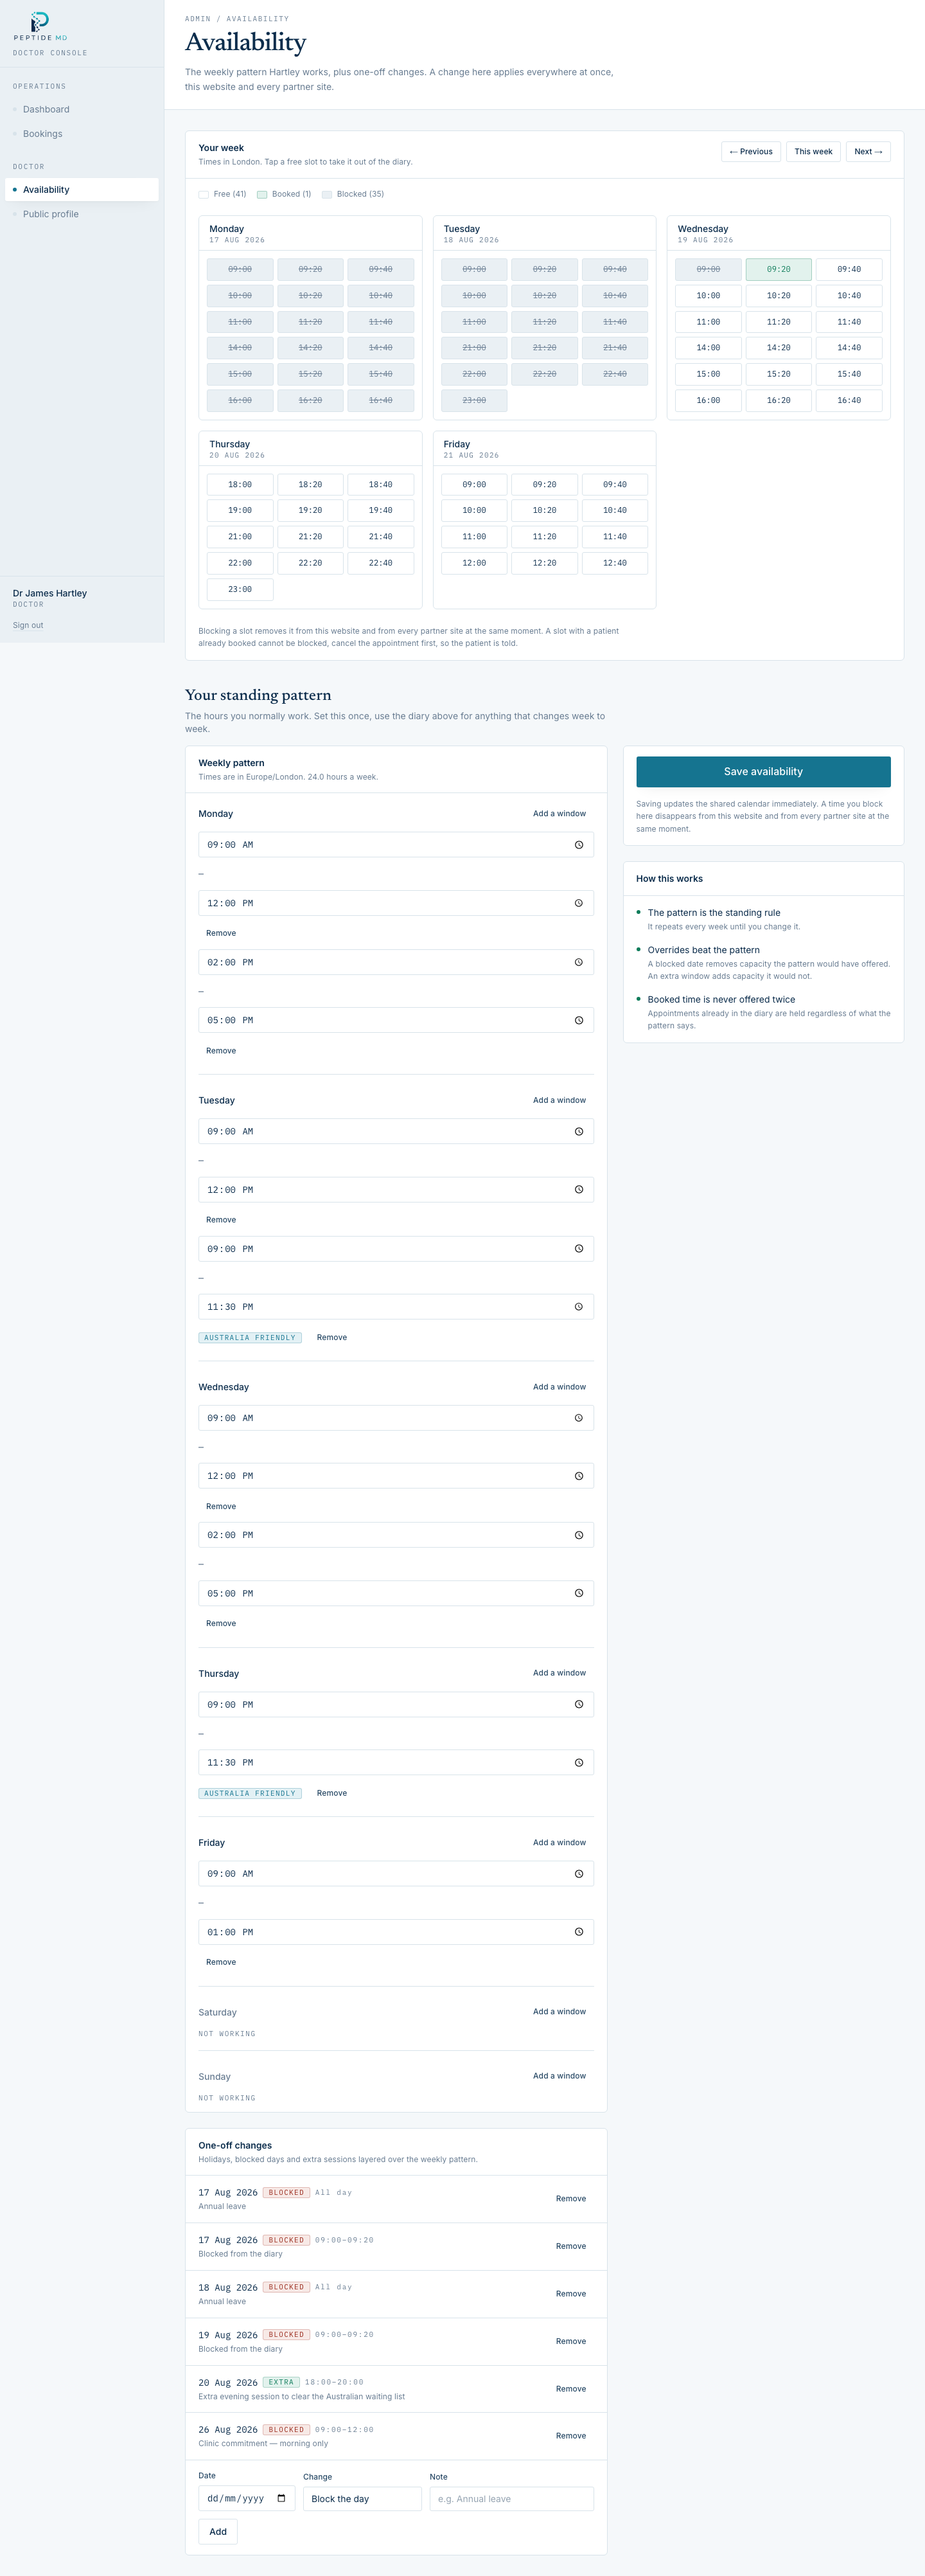
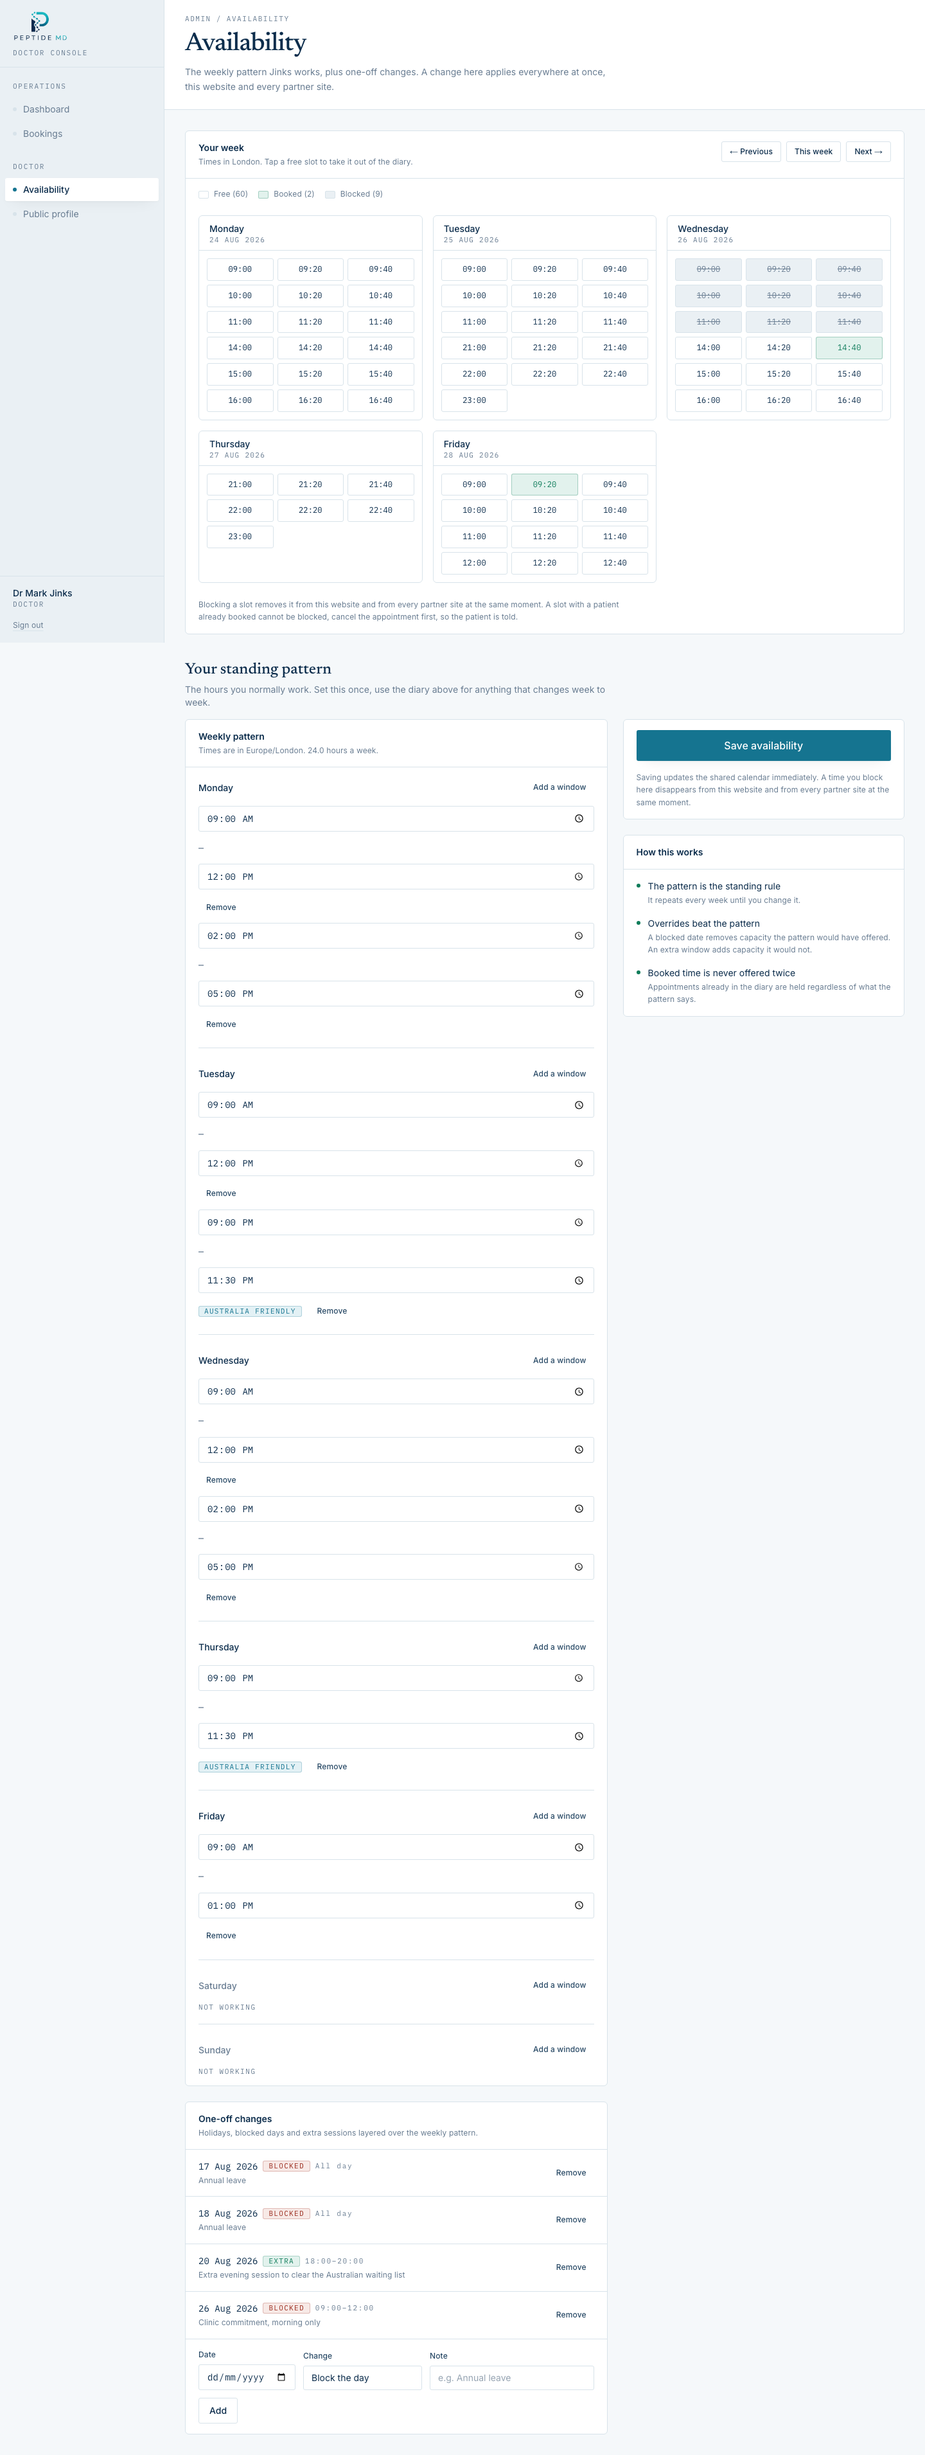
feat: Dr Jinks's own bio, credentials and quote
Supplied by the clinic. Replaces the last of the stand-in content on the public
page, including a pull quote that had been written for him and attributed to
him, which is not a quote.

His real GMC number is here, 7408409, so the registration line prints again for
the first time since I cleared the invented one.

Main areas and languages are now his: sports and performance medicine,
longevity and preventative health, general practice, men's and women's health
screening, musculoskeletal medicine. The section heading changed from "What he
sees most", which was our phrasing, to "Main areas", which is his.

ONE EDITORIAL CHANGE TO THE TEXT SUPPLIED
A single em dash in the first paragraph became a comma. This project does not
use them anywhere and scripts/verify-no-em-dashes.mjs enforces that against the
database as well as the source, so the bio would have failed the check as
written. Nothing else was altered: the words, the paragraph breaks and the
punctuation are as sent.

Doctor.quote is nullable on purpose. A doctor without one should render nothing
rather than something written on his behalf.

Also fixed a cosmetic issue the new content exposed: five main areas in a
two-column grid left the last cell empty, showing the divider colour as a grey
hole. An odd final item now spans both columns.

All suites green.

diff --git a/packages/database/prisma/seed.ts b/packages/database/prisma/seed.ts
@@ -73,22 +73,22 @@ async function main() {
     create: {
       name: 'Dr Mark Jinks',
       credentials: 'MBBS, MRCGP',
-      // Empty until Ross supplies it. The site omits the registration line
-      // rather than printing a number we do not hold.
-      gmcNumber: '',
+      gmcNumber: '7408409',
       photoUrl: '/doctor/peptide-md-doctor.jpg',
+      quote: 'Why be well when you can be great?',
       headline: 'A doctor who will tell you when the answer is no.',
       bio: [
-        'Mark Jinks has practised for eighteen years, the last six of them working almost entirely with patients who are using, or thinking about using, peptide therapies.',
-        'He came to it the way most people do, patients arriving with a protocol they had found online, a box of vials, and nobody willing to talk to them about it. Most had been sold something. Almost none had been examined.',
-        'The consultation is twenty minutes and it is deliberately plain. He will ask what you are taking, what you are trying to fix, and what your history is. Then he will tell you what he thinks, including when he thinks the honest answer is that you should not be taking anything at all.',
-        'He has no products to sell and no affiliation with any supplier. That is the point of the service.',
+        'I\'ve been practising medicine for 13 years. My training began in surgery, focused on orthopaedics, before I moved into general practice, where I\'ve worked for the last six years alongside completing a Master\'s in Sports and Exercise Medicine. Since then my work has spanned sports medicine, longevity and functional medicine, including training with the Institute for Functional Medicine and A4M, health screening with Bupa, NHS work in general practice and complex elderly care, and Medical Director roles for a medical wellness business and a longevity clinic in the Harley Street medical district. I\'ve also worked in sport at elite level, particularly rugby and hockey, building on my own background as a high-performance athlete.',
+        'I first came across peptides several years ago through my performance and longevity work. What began as reading and research became formal training with US physicians and institutions specialising in peptide therapeutics, and I\'ve continued building my knowledge and clinical experience since. I was drawn to them for the same reason I was drawn to this field in general: I want to work at the front edge of what\'s possible for health and performance, and to do it properly.',
+        'Patients can expect a thorough consultation with genuine attention to detail. I take time to listen and understand the full picture: your current health, your goals and concerns, your medical history and lifestyle. From there I draw on experience across general practice, sports medicine, and performance and longevity medicine to build a detailed plan, starting with the foundations and extending to supplements and more advanced therapies where they\'re right for you.',
+        'Patient safety sits at the front of everything I offer. I\'m open-minded about innovative therapies, but every recommendation is individual: a careful review of your background, an honest conversation about the evidence, risks and benefits, and appropriate screening, investigations and follow-up. If I don\'t think something is safe or suitable for you, I\'ll say so and I won\'t recommend it.',
       ].join('\n\n'),
       specialisms: [
-        'Peptide therapy review',
-        'Injury and post-surgical recovery',
-        'Metabolic and weight management',
-        'Sleep and recovery',
+        'Sports and performance medicine',
+        'Longevity and preventative health',
+        'General practice',
+        "Men's and women's health screening",
+        'Musculoskeletal medicine',
       ],
       languages: ['English'],
       timezone: 'Europe/London',

diff --git a/apps/web/src/app/(marketing)/the-doctor/page.tsx b/apps/web/src/app/(marketing)/the-doctor/page.tsx
@@ -1,4 +1,5 @@
 import type { Metadata } from 'next';
+import { cn } from '@/lib/cn';
 import { getConsultation } from '@/lib/api/public';
 import { formatMoney } from '@/lib/format';
 import { CtaBand, PortraitFrame, RequisitionCard } from '@/components/marketing/Primitives';
@@ -62,25 +63,39 @@ export default async function DoctorPage() {
             </div>
 
             <div className="mt-12 border-t border-line pt-8">
-              <p className="eyebrow">What he sees most</p>
+              <p className="eyebrow">Main areas</p>
               <ul className="mt-5 grid gap-px overflow-hidden rounded-lg border border-line bg-line sm:grid-cols-2">
-                {doctor.specialisms.map((specialism) => (
-                  <li key={specialism} className="bg-surface px-5 py-4 text-sm text-ink-soft">
+                {doctor.specialisms.map((specialism, index) => (
+                  <li
+                    key={specialism}
+                    className={cn(
+                      'bg-surface px-5 py-4 text-sm text-ink-soft',
+                      // An odd count would otherwise leave the last cell of the
+                      // two-column grid empty, showing the divider colour as a
+                      // grey hole. The final item spans instead.
+                      index === doctor.specialisms.length - 1 &&
+                        doctor.specialisms.length % 2 === 1 &&
+                        'sm:col-span-2'
+                    )}
+                  >
                     {specialism}
                   </li>
                 ))}
               </ul>
             </div>
 
-            <blockquote className="mt-12 border-l-2 border-accent pl-6">
-              <p className="font-display text-h3 leading-snug text-ink">
-                “Half of what I do is telling people that the thing they have been sold will not
-                fix the thing they actually have.”
-              </p>
-              <footer className="mt-4 font-mono text-eyebrow uppercase tracking-[0.14em] text-muted">
-                {doctor.name}
-              </footer>
-            </blockquote>
+            {/* His own words. The line that used to sit here was written for
+                him and attributed to him, which is not a quote. */}
+            {doctor.quote ? (
+              <blockquote className="mt-12 border-l-2 border-accent pl-6">
+                <p className="font-display text-h3 leading-snug text-ink">
+                  &ldquo;{doctor.quote}&rdquo;
+                </p>
+                <footer className="mt-4 font-mono text-eyebrow uppercase tracking-[0.14em] text-muted">
+                  {doctor.name}
+                </footer>
+              </blockquote>
+            ) : null}
           </div>
         </div>
       </section>

diff --git a/apps/web/src/lib/data/fixtures/doctor.ts b/apps/web/src/lib/data/fixtures/doctor.ts
@@ -6,6 +6,7 @@ export const doctorProfile: DoctorProfile = {
   credentials: 'MBBS, MRCGP',
   gmcNumber: '7214883',
   photoUrl: null,
+  quote: 'Why be well when you can be great?',
   headline: 'A doctor who will tell you when the answer is no.',
   bio: [
     'Mark Jinks has practised for eighteen years, the last six of them working almost entirely with patients who are using, or thinking about using, peptide therapies.',

diff --git a/packages/shared/src/doctor.ts b/packages/shared/src/doctor.ts
@@ -15,6 +15,9 @@ export interface DoctorProfile {
   photoUrl: string | null;
   headline: string;
   bio: string;
+  /** His own words, shown as a pull quote. Null renders nothing rather than
+   *  something written on his behalf. */
+  quote: string | null;
   specialisms: string[];
   languages: string[];
   timezone: string;

diff --git a/apps/api/src/modules/bookings/publicRouter.ts b/apps/api/src/modules/bookings/publicRouter.ts
@@ -39,6 +39,7 @@ publicBookingRouter.get(
         gmcNumber: doctor.gmcNumber,
         headline: doctor.headline,
         bio: doctor.bio,
+        quote: doctor.quote,
         specialisms: doctor.specialisms,
         languages: doctor.languages,
         photoUrl: doctor.photoUrl,

diff --git a/apps/api/src/modules/admin/router.ts b/apps/api/src/modules/admin/router.ts
@@ -361,6 +361,7 @@ adminRouter.get(
       photoUrl: doctor.photoUrl,
       headline: doctor.headline,
       bio: doctor.bio,
+      quote: doctor.quote,
       specialisms: doctor.specialisms,
       languages: doctor.languages,
       timezone: doctor.timezone,
